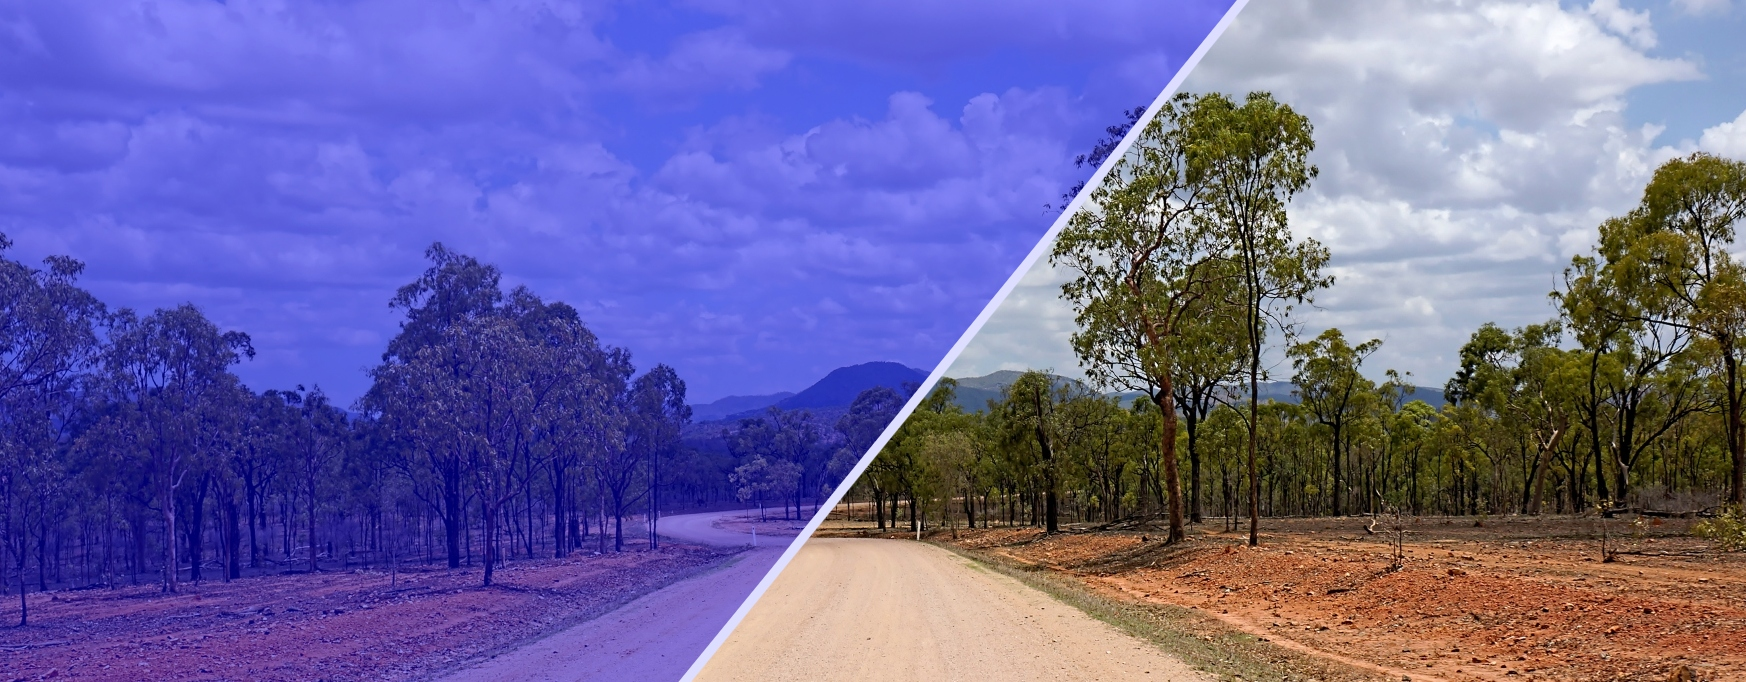
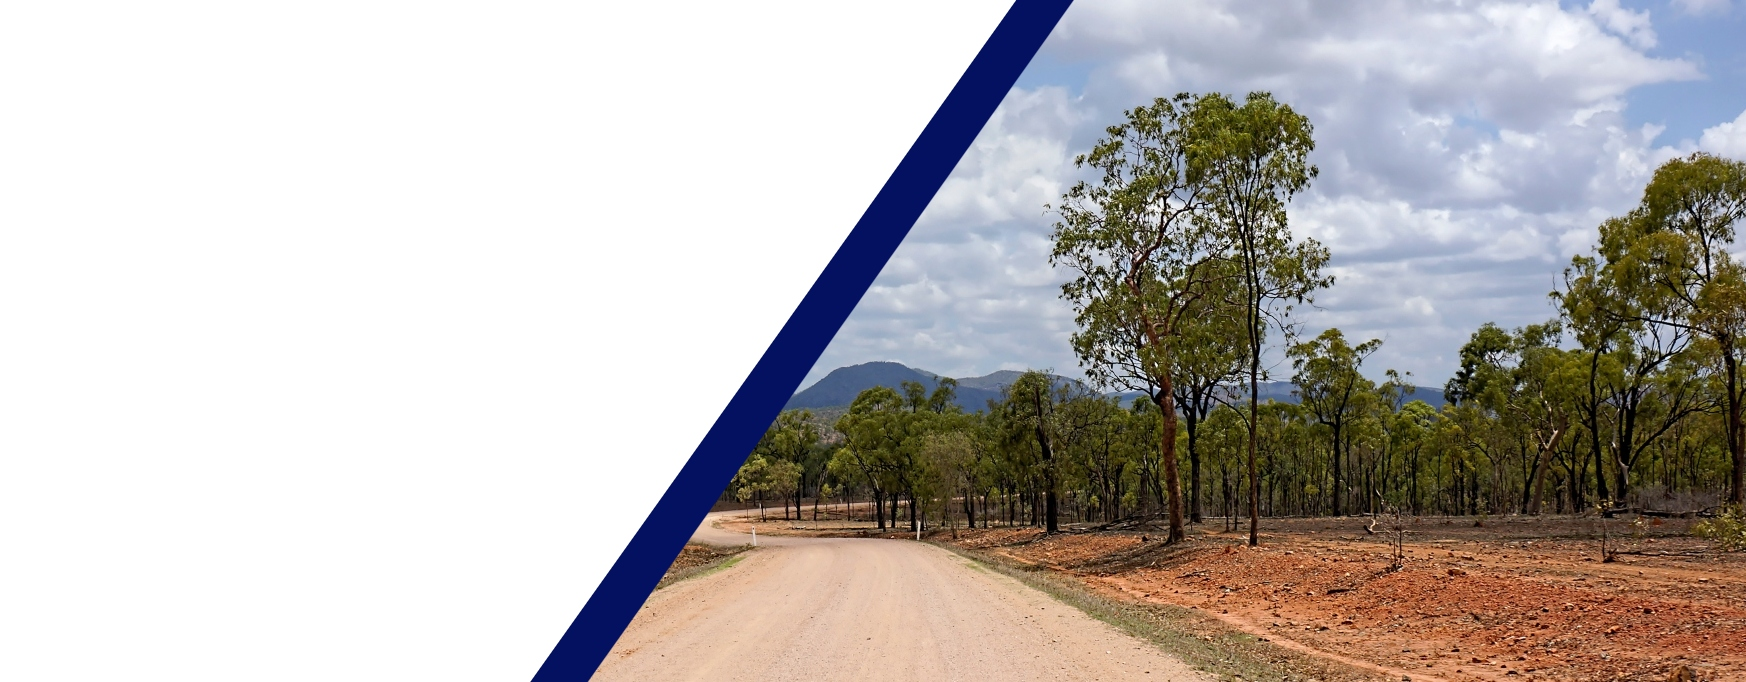
sliders updated

diff --git a/index.html b/index.html
@@ -293,7 +293,8 @@
                       data-delay="1.5s">Commitment is something that comes from understanding <br>  that everything has its
                       price and then having the  willingness to</p>
                       <br>
-                      <br>
+                      <!-- <br>
+                      <br> -->
                   </div>
                 </div>
               </div>
@@ -301,19 +302,19 @@
           </div>
         </div>
         <div class="swiper-slide slide-02"
-          style="background-image: url(images/slider/slider3.jpg); background-size: cover; background-position: center; background-repeat: no-repeat;">
+          style="background-image: url(images/slider/slider-3.jpg); background-size: cover; background-position: center; background-repeat: no-repeat;">
           <div class="container">
             <div class="row">
               <div class="col-xl-6 col-lg-8 col-md-10 pr-md-5">
-                <div class="content-bg-card banner-content">
+                <div class=" banner-content">
                   <div class="content">
-                    <h2 class="animated mb-4 text-white h1" data-swiper-animation="fadeInUp" data-duration="2.0s"
+                    <h2 class="animated mb-4 h1" data-swiper-animation="fadeInUp" data-duration="2.0s"
                       data-delay="1.0s">We Build <span class="text-primary">Brand</span></h2>
-                    <div class="animated lead text-white" data-swiper-animation="fadeInUp" data-duration="2.0s"
-                      data-delay="1.0s">The sad thing is the majority of people have no clue about what.</div>
-                    <p class="animated text-white mt-3 mb-4" data-swiper-animation="fadeInUp" data-duration="2.0s"
-                      data-delay="1.5s">Commitment is something that comes from understanding that everything has its
-                      price and then having the willingness to pay that price.</p>
+                    <div class="animated lead" data-swiper-animation="fadeInUp" data-duration="2.0s"
+                      data-delay="1.0s">The sad thing is the majority of people <br> have no clue about what.</div>
+                    <p class="animated mt-3 mb-4" data-swiper-animation="fadeInUp" data-duration="2.0s"
+                      data-delay="1.5s">Commitment is something that comes from understanding <br> that everything has its
+                      price and then having the willingness <br> to pay that price.</p>
                   </div>
                 </div>
               </div>
